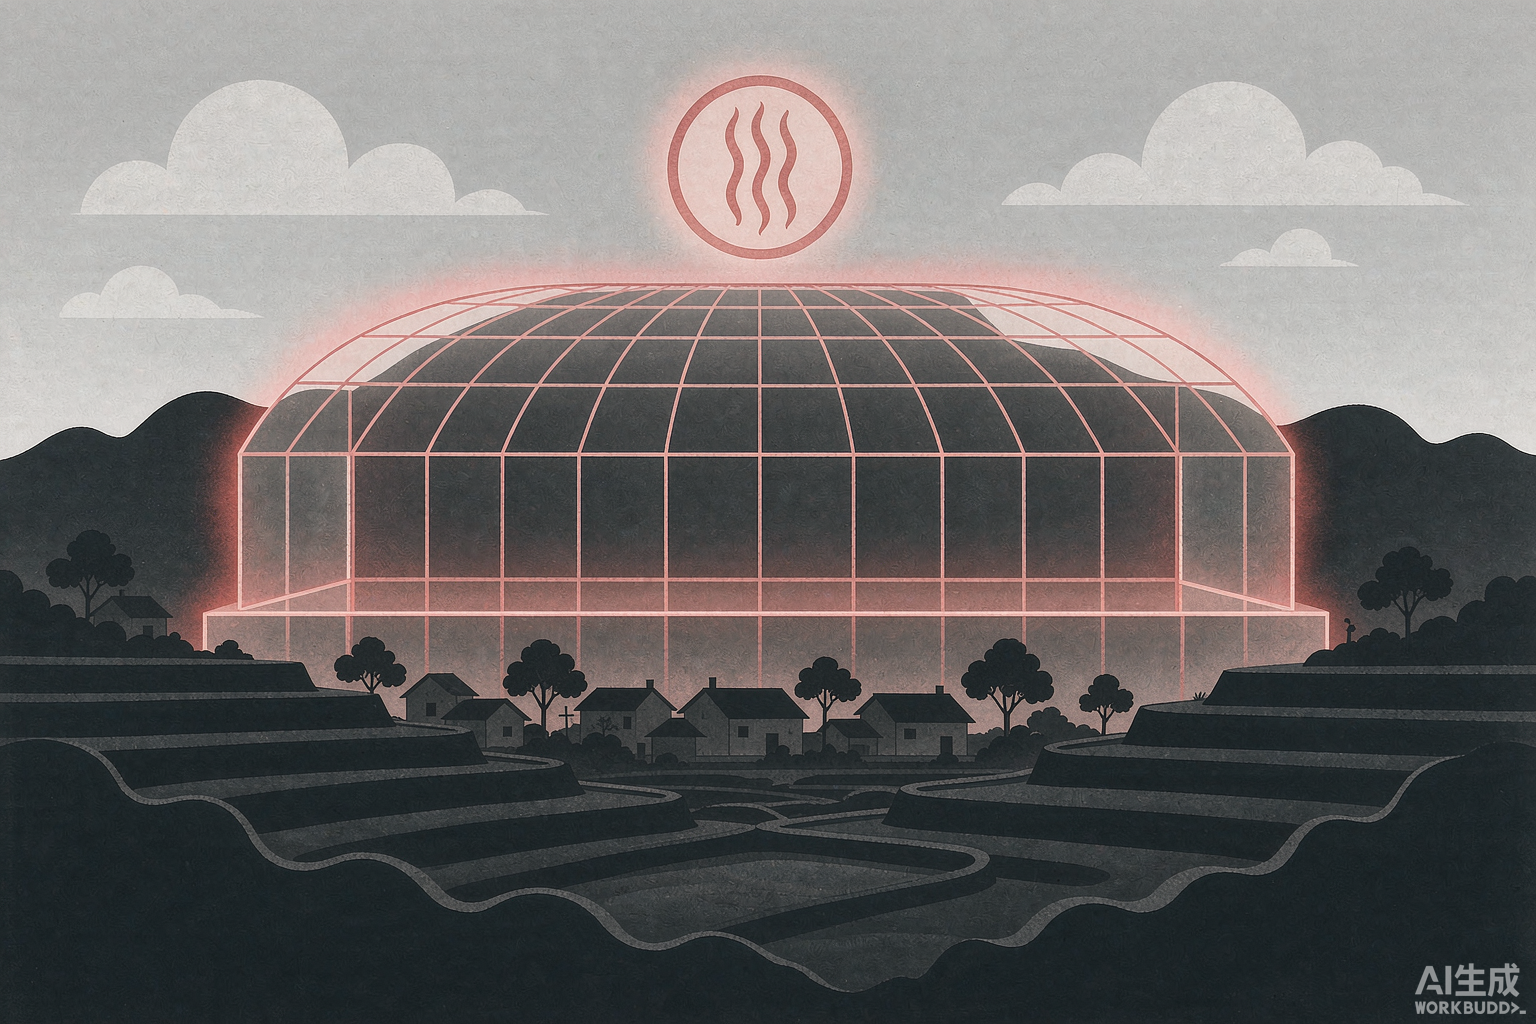
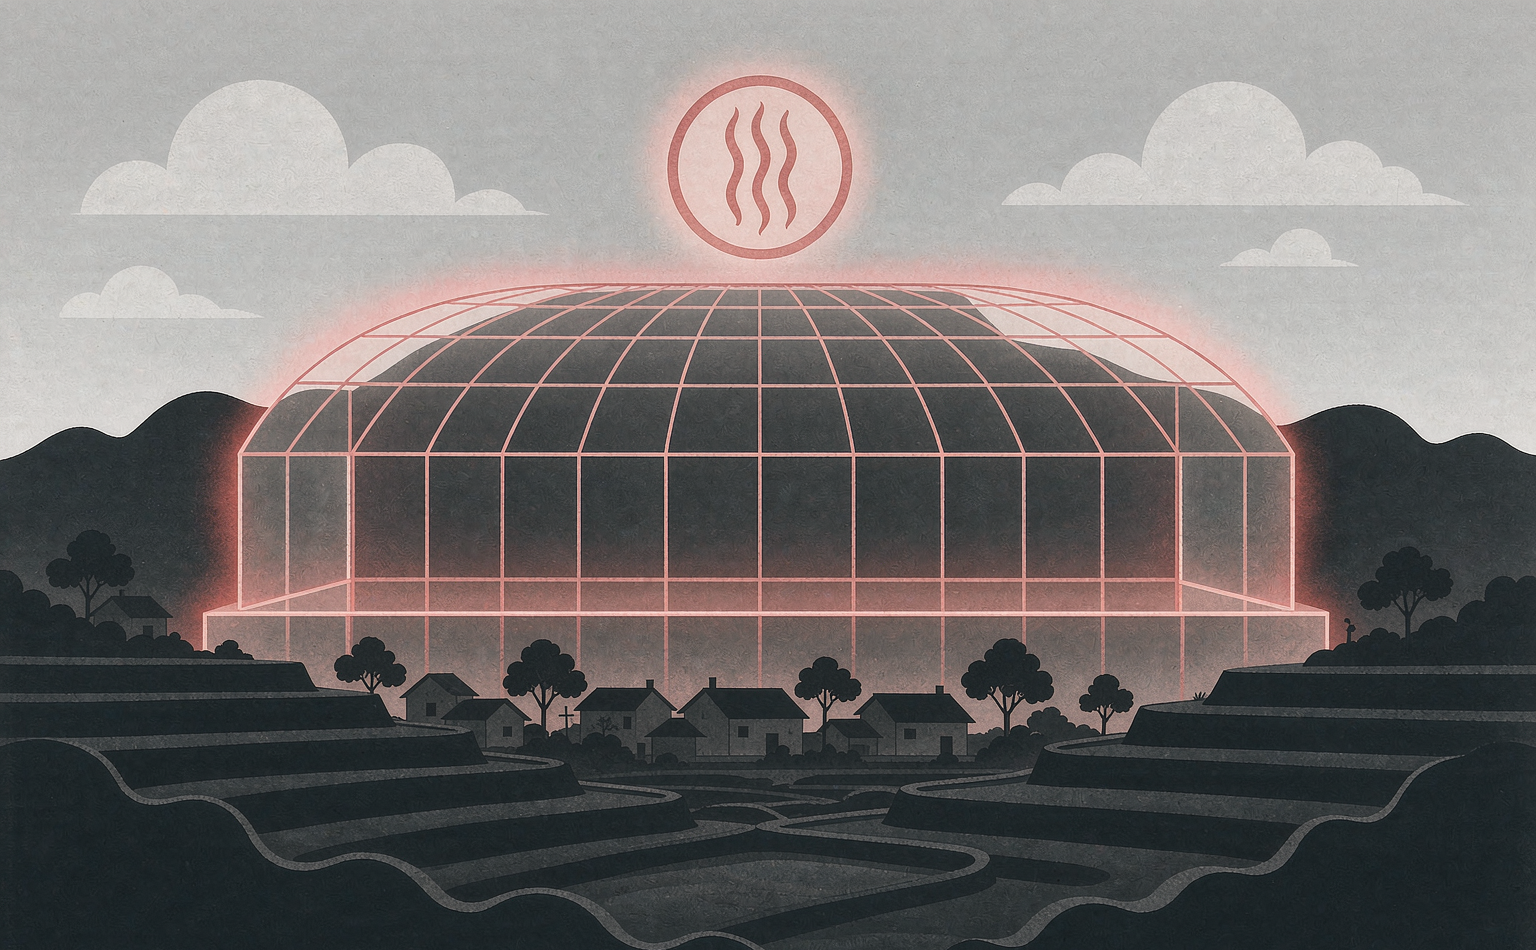
add article 16 16-wanxiang-sannong

diff --git a/16-wanxiang-sannong.html b/16-wanxiang-sannong.html
@@ -754,7 +754,9 @@
 <link rel="canonical" href="https://ctobserver.top/16-wanxiang-sannong.html">
 <meta name="author" content="慈善信托观察">
 <meta name="robots" content="index,follow,max-image-preview:large,max-snippet:-1,max-video-preview:-1">
-<script type="application/ld+json">{"@context":"https://schema.org","@type":"Article","headline":"鲁伟鼎：把百亿股权交给一个不套现的信托","description":"国内最大慈善信托如何做到「经营不改、世代不取」","inLanguage":"zh-CN","image":["https://ctobserver.top/assets/og-share.png"],"author":{"@type":"Organization","name":"慈善信托观察","url":"https://ctobserver.top/"},"publisher":{"@type":"Organization","name":"慈善信托观察 · Charity Trust Observer","logo":{"@type":"ImageObject","url":"https://ctobserver.top/assets/logo.png"}},"mainEntityOfPage":{"@type":"WebPage","@id":"https://ctobserver.top/16-wanxiang-sannong.html"},"url":"https://ctobserver.top/16-wanxiang-sannong.html","isPartOf":{"@type":"WebSite","name":"慈善信托观察","url":"https://ctobserver.top/"},"articleSection":"案例研究"}</script>
+<meta property="article:published_time" content="2026-10-13">
+<meta property="article:modified_time" content="2026-10-13">
+<script type="application/ld+json">{"@context":"https://schema.org","@type":"Article","headline":"鲁伟鼎：把百亿股权交给一个不套现的信托","description":"国内最大慈善信托如何做到「经营不改、世代不取」","inLanguage":"zh-CN","image":["https://ctobserver.top/assets/og-share.png"],"author":{"@type":"Organization","name":"慈善信托观察","url":"https://ctobserver.top/"},"publisher":{"@type":"Organization","name":"慈善信托观察 · Charity Trust Observer","logo":{"@type":"ImageObject","url":"https://ctobserver.top/assets/logo.png"}},"mainEntityOfPage":{"@type":"WebPage","@id":"https://ctobserver.top/16-wanxiang-sannong.html"},"url":"https://ctobserver.top/16-wanxiang-sannong.html","isPartOf":{"@type":"WebSite","name":"慈善信托观察","url":"https://ctobserver.top/"},"articleSection":"案例研究","datePublished":"2026-10-13","dateModified":"2026-10-13"}</script>
 <!-- ===== /SEO ===== -->
 </head>
 <body>
@@ -781,7 +783,6 @@
   </div>
   <div class="hero-image">
     <img src="/images/16-wanxiang-sannong/header.png" alt="文章配图" />
-    <div class="image-caption">经济学人风格配图 · 稻田之上，一笔股权被锁进永续信托</div>
   </div>
 </header>
 <div class="article-body">
